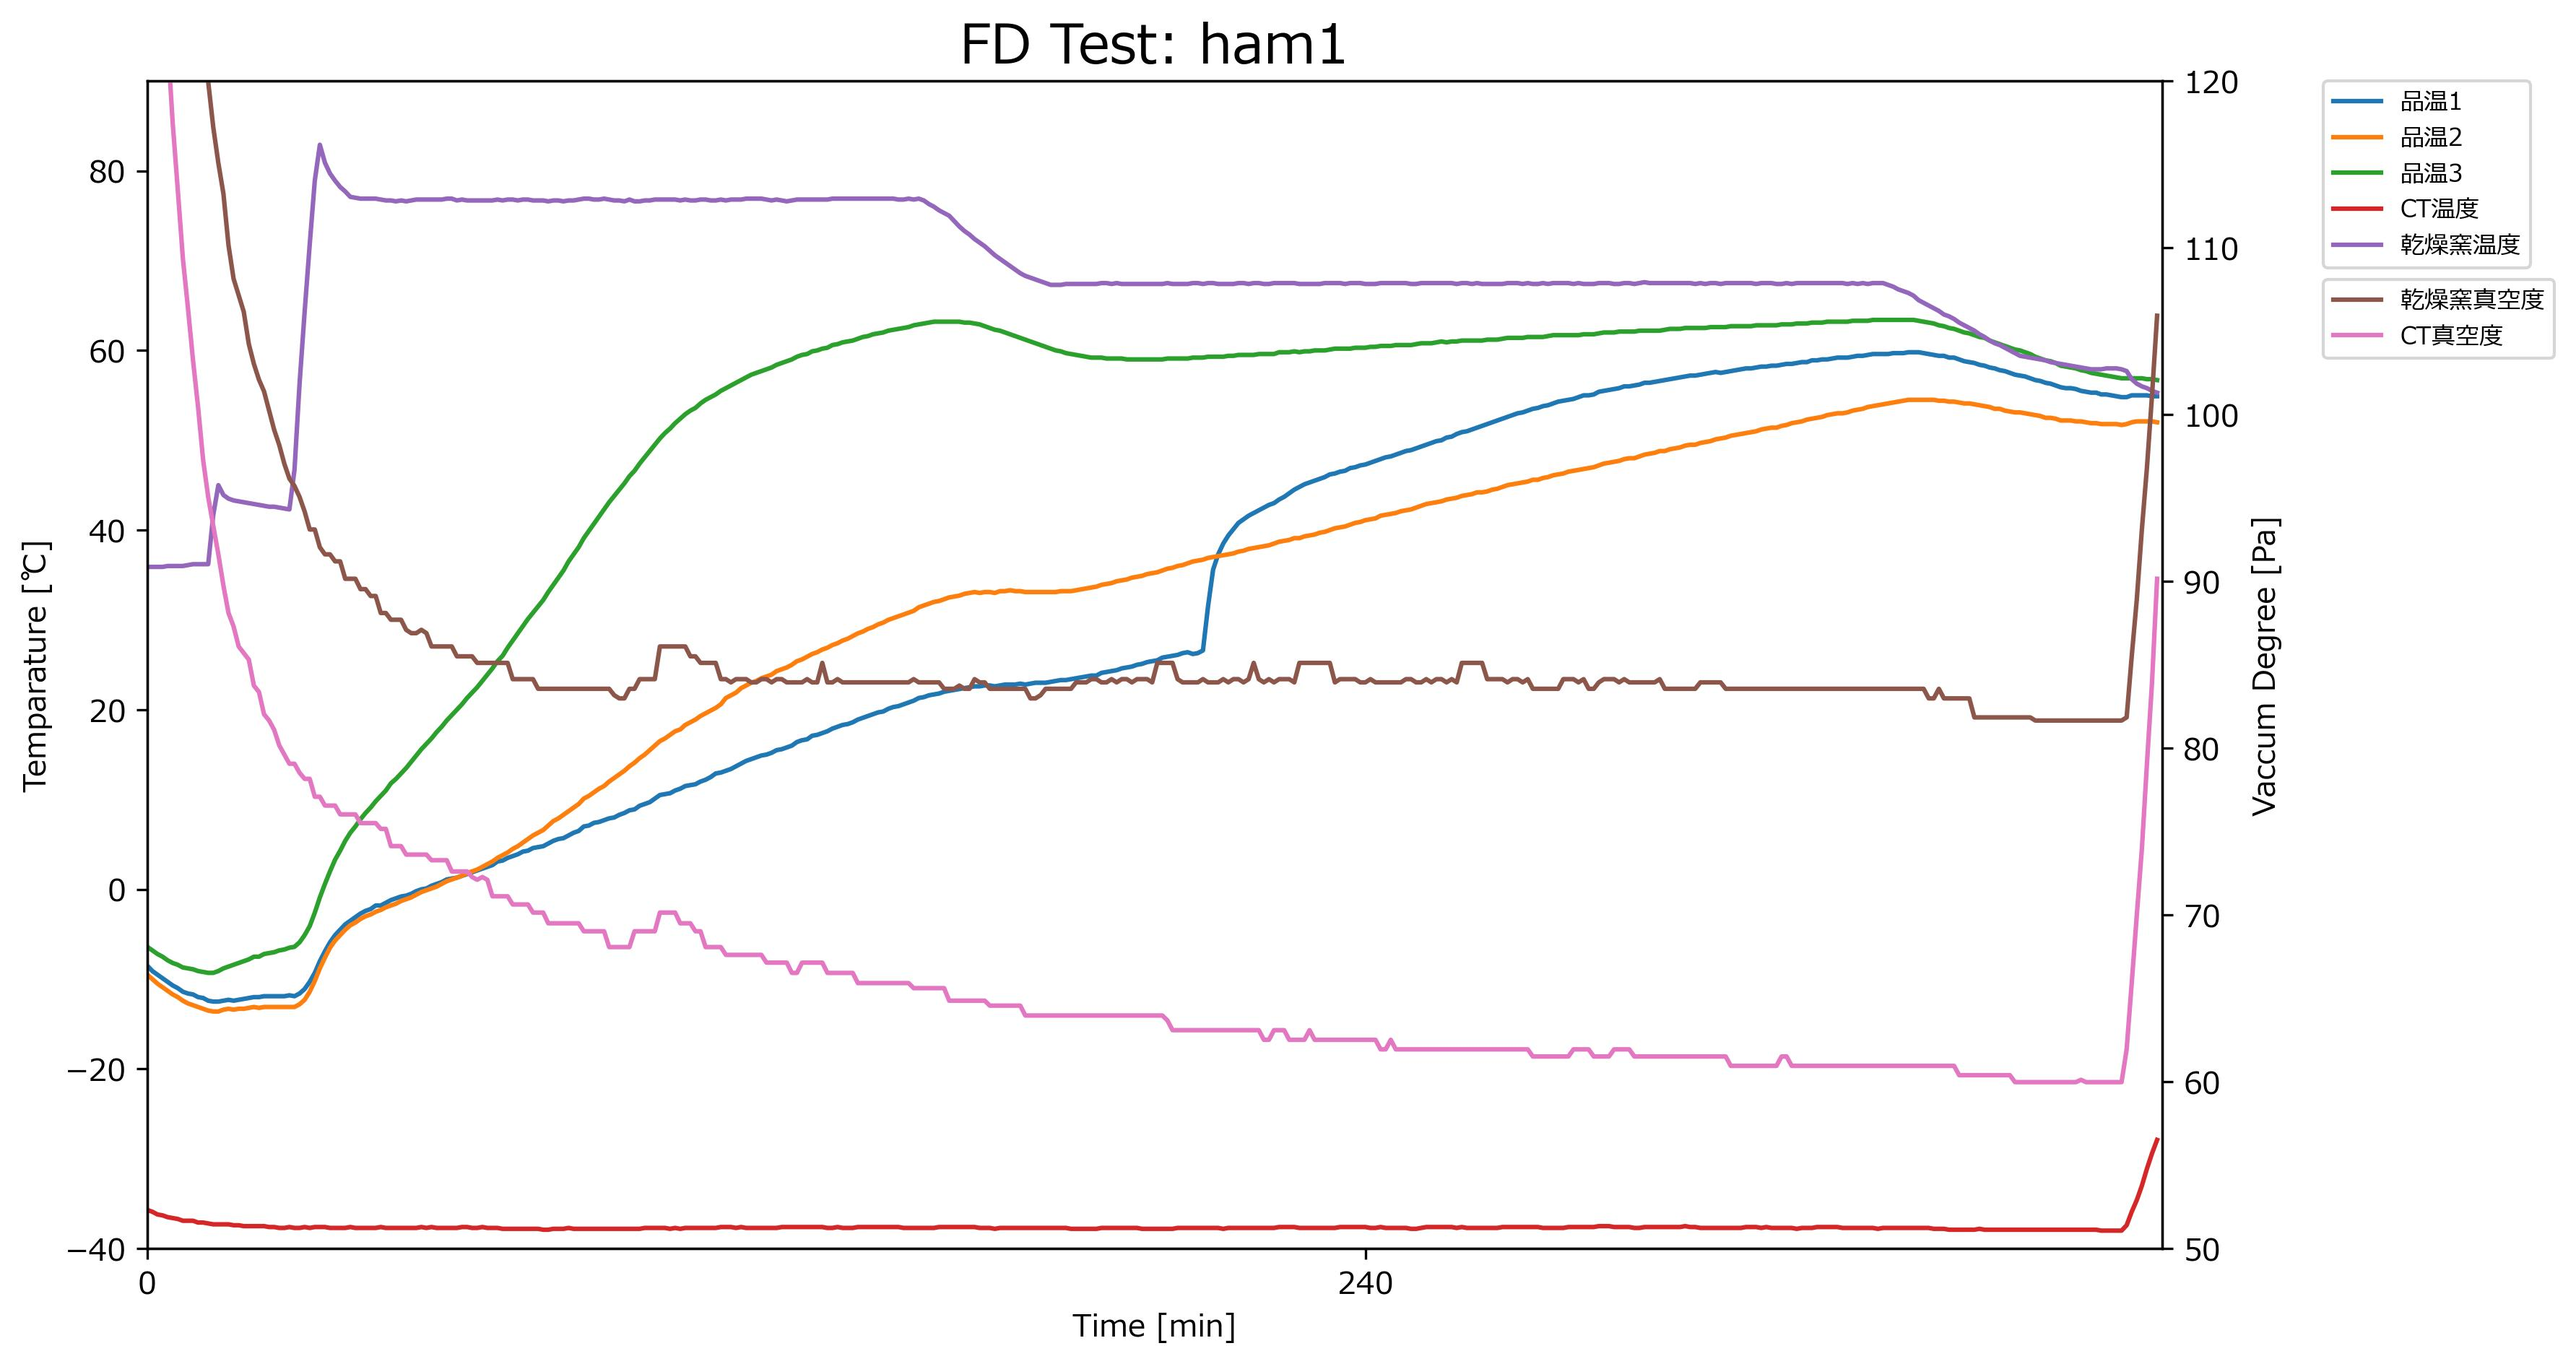
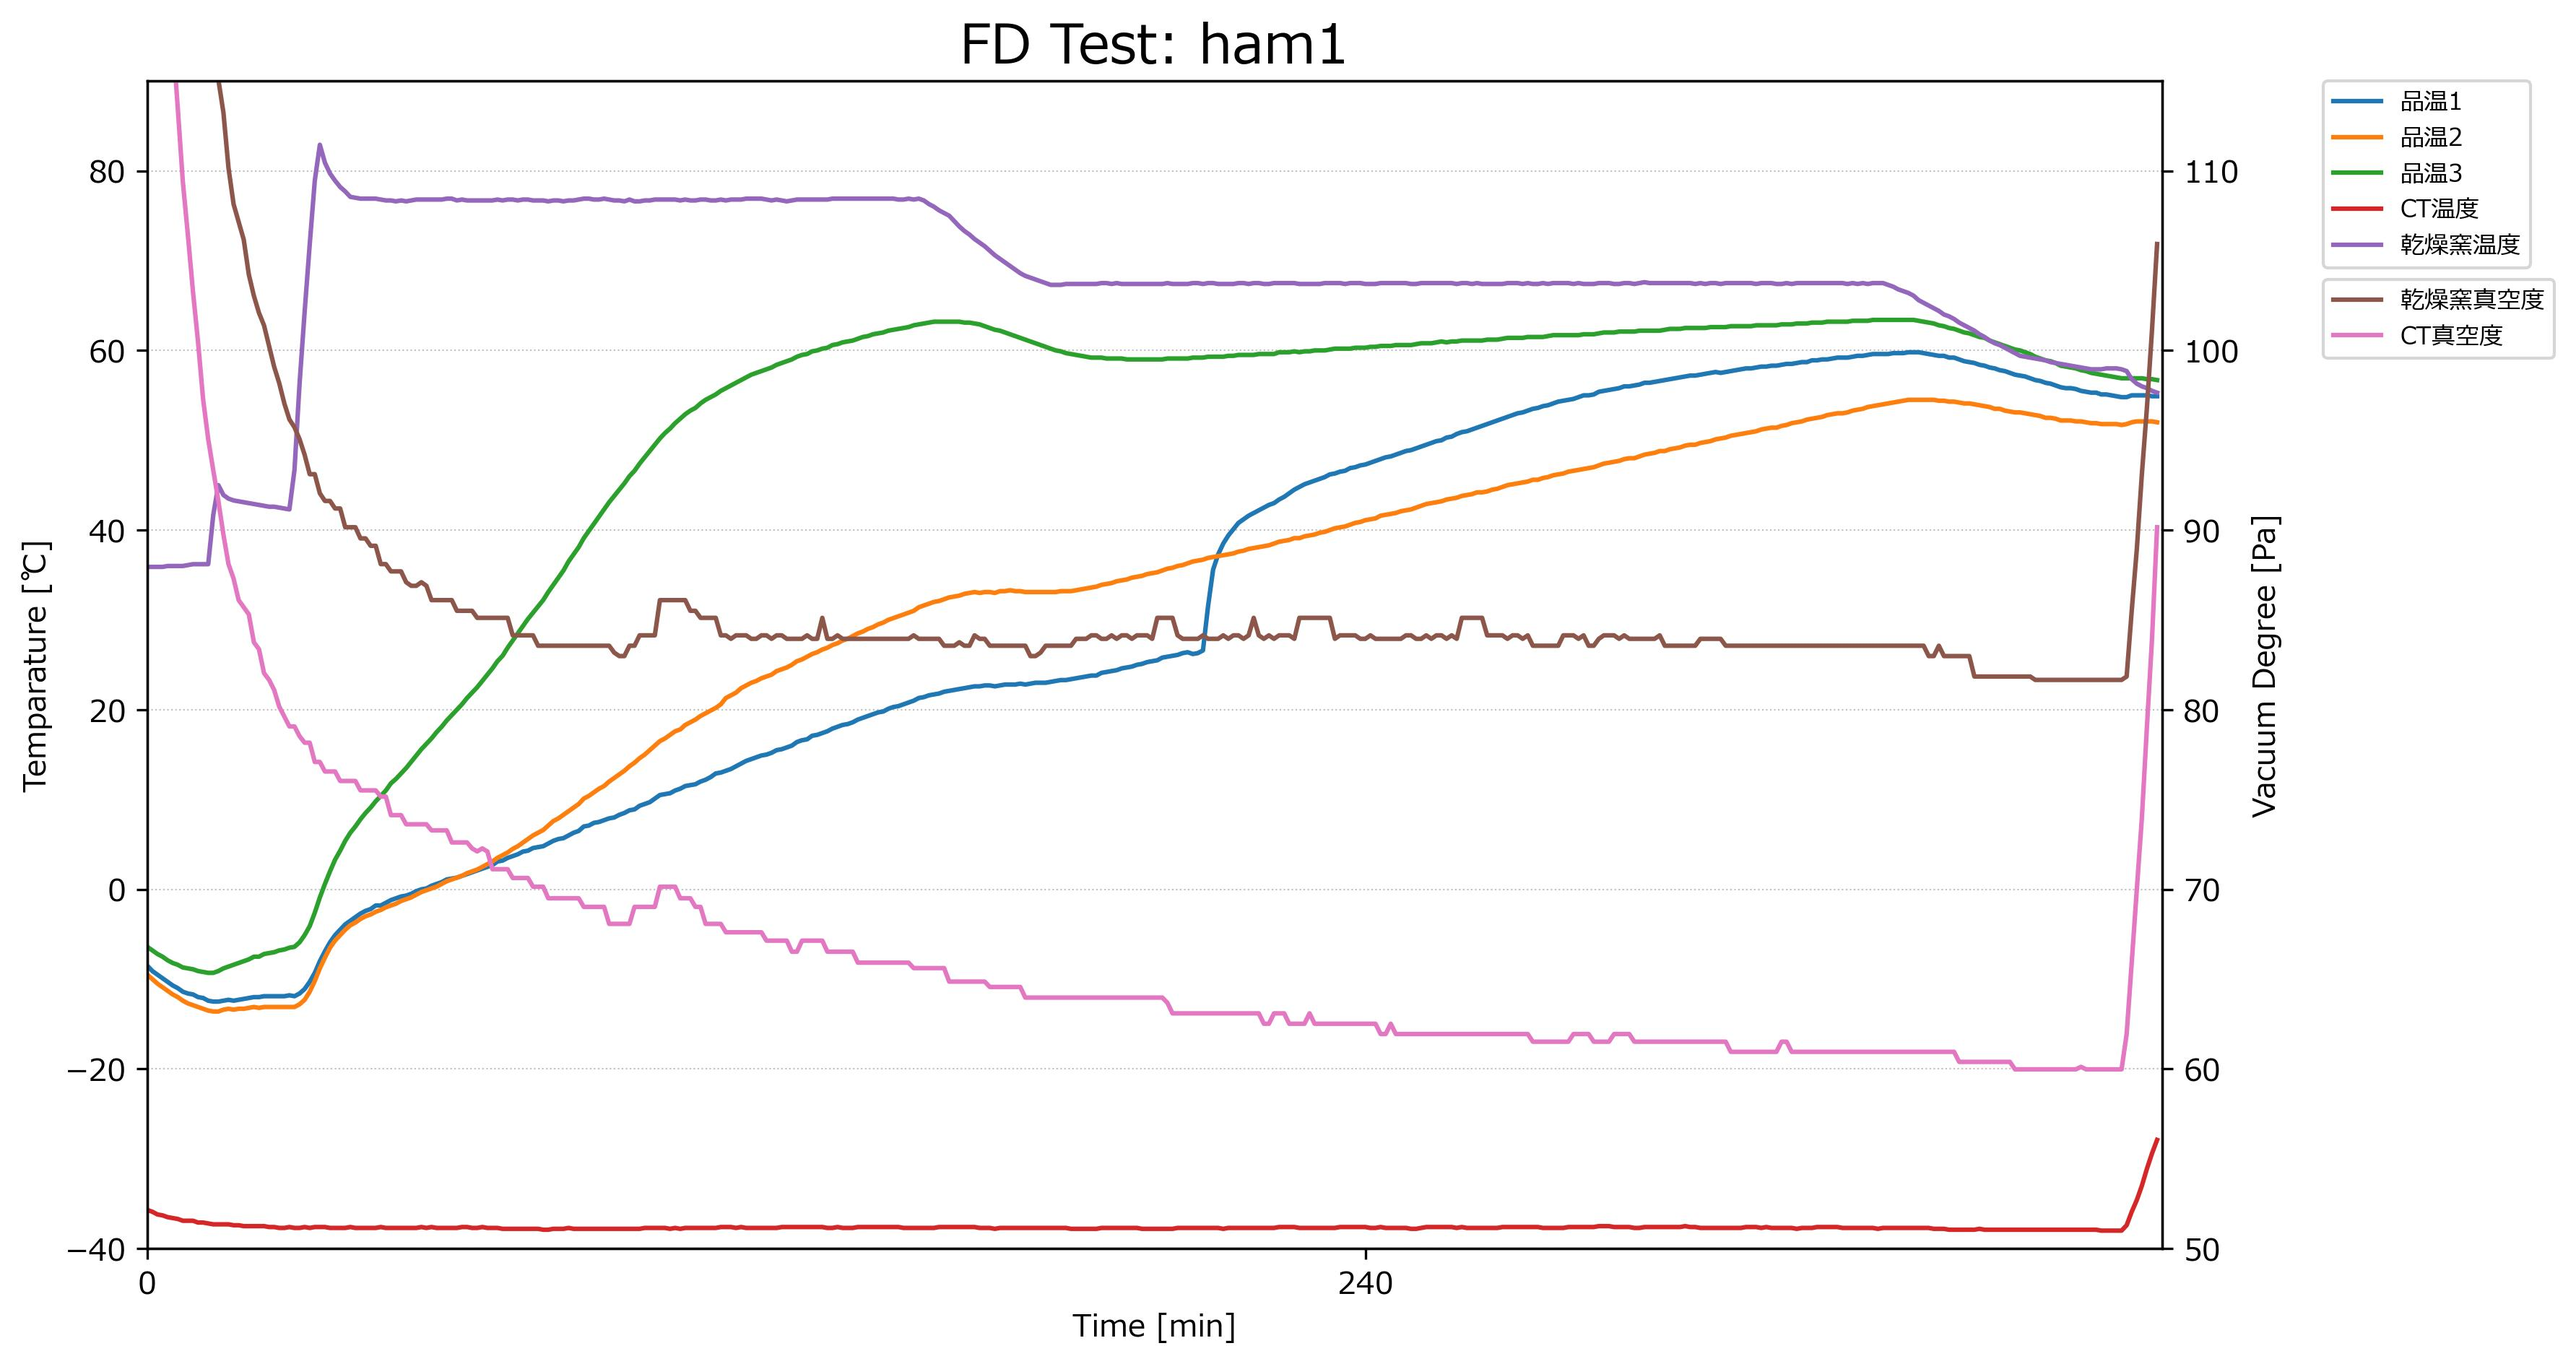
fixed

diff --git a/out_graph.py b/out_graph.py
@@ -113,11 +113,12 @@ ax2 = ax1.twinx()
 ax1.set_title('FD Test: {}'.format(out_name),fontsize=18)
 ax1.set_xlabel('Time [min]')
 ax1.set_ylabel('Temparature [℃]')
-ax2.set_ylabel('Vaccum Degree [Pa]')
+ax2.set_ylabel('Vacuum Degree [Pa]')
 ax1.set_xlim([0,len(ch1)])
 ax1.set_xticks(np.arange(0,len(ch1),step=240))
 ax1.set_ylim([-40, 90])
-ax2.set_ylim([50, 120])
+ax2.set_ylim([50, 115])
+ax1.grid(which = "major", axis = "y", color = "gray", alpha = 0.5, linestyle = ":", linewidth = 0.5)
 
 
 for ch, names, col in zip(ch_temp, ch_names_temp, col_temp):

diff --git a/README.md b/README.md
@@ -6,7 +6,7 @@ KEYENCE 計測ソフトより生成したcsvファイルを読み込み、指定
 また、以下の機能も実装している。
 * センサー未接続状態（"BURNOUT"）をフィルタリング
 * プロットピッチを指定し、グラフの解像度を変化させることが可能
-* グラフ縦軸表示領域は、1軸：-40℃～100℃、2軸：50～120Pa
+* グラフ縦軸表示領域は、1軸：-40℃～100℃、2軸：50～115Pa
 * センサー温度100℃以上および真空度200Pa以上はフィルタリング
 * 出力名は「(csvファイル名)\_(プロットピッチ)\_(出力日).jpg」
 
@@ -46,6 +46,7 @@ or
 ```bash
 python3 ./(cloned dir)/FreezeDryTest/out_graph.py argv1 argv2
 ```
+
 スクリプト実行に必要な引数は以下の二つである。
 * argv1: Path to csv file (csvファイルへのパス。相対・絶対問わず)
 * argv2: Plot pitch (グラフに記録する点のピッチ、csvファイルのデフォルトは1秒/ピッチである)
